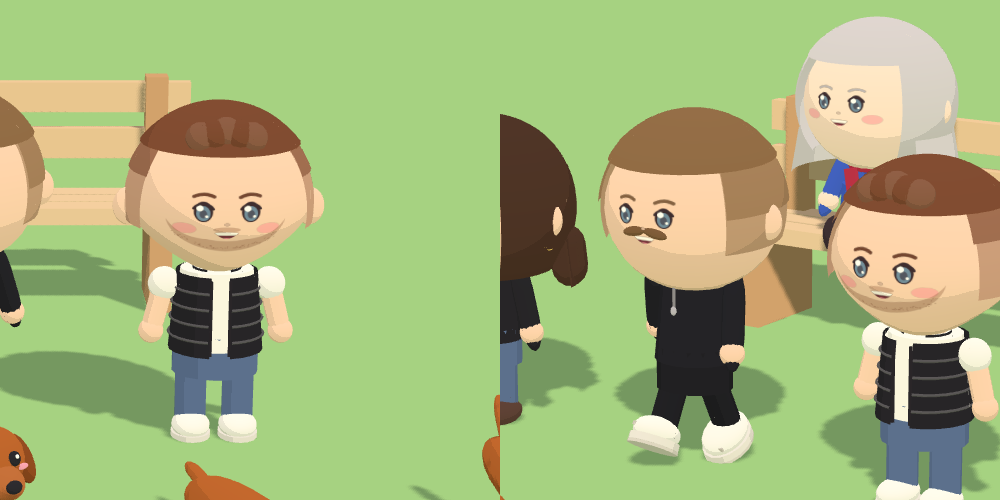
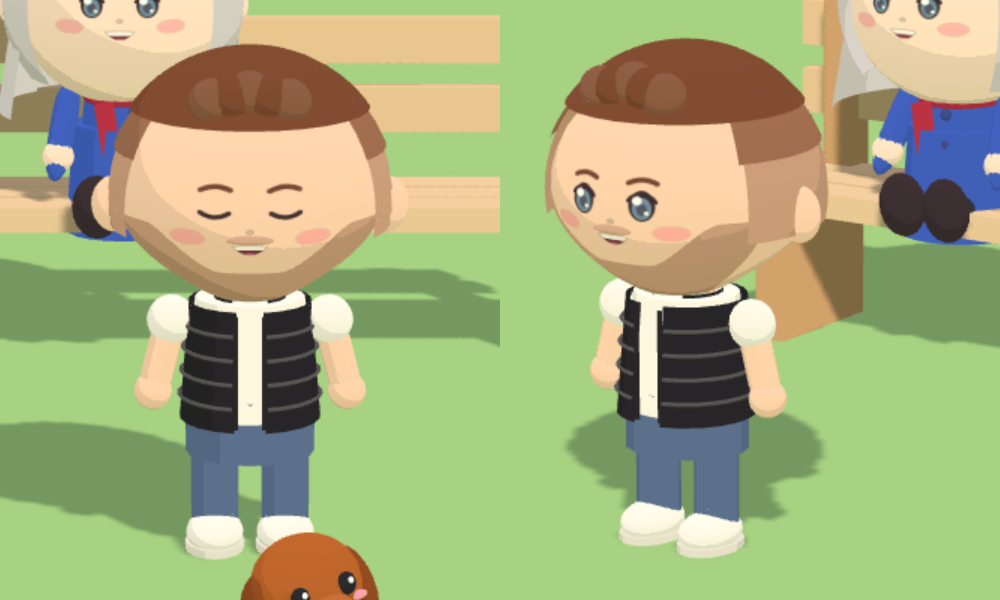
Mo: Dreitagebart als hautenge Schattenschicht statt aufgemaltem Streifen
Der gemalte Stoppelbart wirkte wie ein verschmierter Halbmond unterm Mund.
Jetzt dieselbe Form wie der kurze Bart, aber direkt auf der Haut und in
einer Mischfarbe aus Haut und Haar – dazu ein ganz flacher Oberlippen-Schatten.

Claude-Session: https://claude.ai/code/session_01ThTYhPHTkGtFy4ue8CC8z3

diff --git a/src/world3d/models/chibi3d.ts b/src/world3d/models/chibi3d.ts
@@ -74,39 +74,6 @@ function drawFace(a: Appearance, blink: boolean): HTMLCanvasElement {
     }
   }
 
-  // Dreitagebart: nur ein feiner Schatten an Kinn, Kiefer und Oberlippe (kein eigenes 3D-Teil)
-  if (a.beard === 'stoppel') {
-    const bc = a.beardColor || a.hairColor;
-    const rnd = mulberry32(11);
-    ctx.save();
-    ctx.globalAlpha = 0.3;
-    ctx.fillStyle = bc;
-    ctx.beginPath();
-    ctx.moveTo(36, eyeY + 18);
-    ctx.quadraticCurveTo(44, eyeY + 76, 128, eyeY + 82);
-    ctx.quadraticCurveTo(212, eyeY + 76, 220, eyeY + 18);
-    ctx.quadraticCurveTo(200, eyeY + 52, 160, eyeY + 52);
-    ctx.quadraticCurveTo(128, eyeY + 60, 96, eyeY + 52);
-    ctx.quadraticCurveTo(56, eyeY + 52, 36, eyeY + 18);
-    ctx.fill();
-    // Oberlippe
-    ctx.beginPath();
-    ctx.ellipse(128, eyeY + 32, 20, 5, 0, 0, Math.PI * 2);
-    ctx.fill();
-    // ein paar Stoppel-Pünktchen
-    ctx.globalAlpha = 0.35;
-    for (let i = 0; i < 70; i++) {
-      const t = rnd() * Math.PI;
-      const rr = 0.8 + rnd() * 0.2;
-      const x = 128 - Math.cos(t) * 88 * rr;
-      const y = eyeY + 40 + Math.sin(t) * 36 * rr;
-      ctx.beginPath();
-      ctx.arc(x, y, 1.1, 0, Math.PI * 2);
-      ctx.fill();
-    }
-    ctx.restore();
-  }
-
   // Augenbrauen (weich geschwungen)
   ctx.strokeStyle = browColor;
   ctx.lineWidth = a.beard !== 'keiner' || a.height > 1.1 ? 5.5 : 4.2;
@@ -164,7 +131,7 @@ function drawFace(a: Appearance, blink: boolean): HTMLCanvasElement {
 
   // Mund
   // Mit Bart sitzt der Mund in der Lücke zwischen Schnurrbart und Bart
-  const my = a.beard === 'voll' || a.beard === 'kurz' ? eyeY + 43 : eyeY + 40;
+  const my = a.beard === 'voll' || a.beard === 'kurz' || a.beard === 'stoppel' ? eyeY + 43 : eyeY + 40;
   const lip = darken(a.skinTone, 0.55);
   if (a.smile === 'laecheln') {
     ctx.strokeStyle = lip;
@@ -1004,6 +971,16 @@ export class Chibi3D {
         m.rotation.z = s * -0.18;
         this.head.add(m);
       }
+    } else if (a.beard === 'stoppel') {
+      // Dreitagebart: dieselbe Form wie der kurze Bart, aber hauteng und nur als Schatten (Haut + Haarfarbe gemischt)
+      const bc = mixHex(a.skinTone, a.beardColor || a.hairColor, 0.38);
+      const stubble = beardShell(R * 1.012, bc, 2.02, 1.6, 2.66);
+      if (oval) taperChin(stubble.geometry, R * 1.012);
+      stubble.scale.set(wide, 0.93, 0.95);
+      this.head.add(stubble);
+      // Oberlippe: ganz flacher Schatten statt Schnurrbart
+      const lip = part(sphereLow, mixHex(a.skinTone, a.beardColor || a.hairColor, 0.3), R * 0.17, R * 0.035, R * 0.025, 0, -R * 0.105, R * 0.928);
+      this.head.add(lip);
     } else if (a.beard === 'kurz' || a.beard === 'voll') {
       const bc = a.beardColor || lighten(a.hairColor, 0.05);
       const full = a.beard === 'voll';

diff --git a/docs/game-mechanics.md b/docs/game-mechanics.md
@@ -226,7 +226,7 @@ Wetter und Feste laufen nach echter Zeit.
 - **Kochen, wenn Jens verreist ist (Nov. 2026):** Das Bistro-Schild sagt jetzt, dass der Schlüssel fürs Kochstudio unter der Fußmatte liegt – „🍳 Ins Kochstudio“ öffnet es trotzdem. Zu Hause geht Kochen ohnehin an der eigenen **Küchenzeile** (Katalog bzw. Wohnküche), mit denselben Rezepten (`CraftPanel station="herd"`).
 - **Gemeinsame Unternehmungen (Nov. 2026):** Im Gesprächsmenü jedes eingezogenen Bewohners steht eine Unternehmung: **Memory mit Oma** (6 Paare, Versuche zählen), **Training mit Thalia** (10 Wiederholungen im Takt drücken, perfekt 2 / gut 1 Punkt; **Lina stellt sich neben Thalia, beide machen die Kniebeugen synchron zur Anzeige**, ganz unten = Punkt in der Mitte; das Fenster rückt nach unten, die Kamera rahmt die beiden, `World3D.trainingScene`, Pose `ChibiPose.squat`), **Puzzle mit Christin** (Schiebepuzzle 3 × 3, aus dem gelösten Bild gemischt, also immer lösbar; geprüft wird nach **Bildern**, gleiche Symbole sind austauschbar; das Ziel steht als kleines Raster daneben, richtige Plätze sind grün umrandet), **Zocken mit Oli** (Pfeil-Duell in **5 Leveln** mit eigenen Bossen: mehr Pfeile, weniger Zeit, ab Level 3 rote **Umkehr-Pfeile** = Gegenrichtung drücken; mit mindestens 60 % Treffern wird das nächste Level frei, jedes erreichte Level ist frei wählbar, Bestwert je Level; die Level-Auswahl geht auch per Tastatur: ↑/↓ wählt, Enter startet), **Kissen-Sumo mit Lars** (abwechselnd ← und → schiebt ihn aus dem Ring, gleiche Taste zweimal = Ausrutscher; der Stoß über den Rand gewinnt die Runde sofort; Lars drückt dagegen, wird je Runde etwas stärker und schiebt ab Level 2 ab und zu plötzlich nach („Tsuppari!“); wer zuerst zwei Runden gewinnt; **8 Level**: fünf Sumo-Ränge von Jonokuchi bis Yokozuna, danach Revanche, Dorfmeisterschaft und Legende (nötiges Tempo laut Simulation: 2 · 3,5 · 4,5 · 5,5 · 6,5 · 7,25 · 8,25 · 9 Drücke/s), ein gewonnenes Match schaltet den nächsten Rang frei, erreichte Ränge frei wählbar; gezeichnete Ringer mit Mawashi und Haarknoten auf einem Dohyō), **Rätselecke mit Papa** (5 von 18 Fragen, zufällig gemischt) und **Malen mit Jens** (Motiv + Farbstimmung; die Leinwand zeigt sofort ein **gemaltes Bild** mit Pinselstrichen: Meer, Winston schlafend, Oma auf der Bank, Sternenhimmel, Oli; Pastell, Kräftig oder Schwarz-Weiß, `gfx/malen.ts`; Jens kommentiert Motiv und Farben). Ablauf: Die Person sagt etwas, dann das Spiel im Fenster, danach ihre Reaktion je nach Ergebnis (super / gut / gemütlich, **kein Verlieren**). **Herzen** (+10) höchstens einmal am Tag je Person, danach beliebig oft nur zum Spaß; **Bestwert** wird gemerkt und ab der zweiten Runde kommentiert; das **erste Mal** steht im Album. Alles liegt in `world.dates` (kein neues Spielstand-Format). „Lieber ein andermal“ bricht jederzeit ab. Inhalte `data/unternehmungen.ts`, Logik `core/unternehmungen.ts` + `game/unternehmungen.ts`, Fenster `ui/ZusammenPanel.tsx`.
 - **Extra-Sätze beim Schenken (Nov. 2026):** Zu etwa 45 % der Geschenke (reproduzierbar je Tag, Person und Gegenstand) kommt nach der normalen Reaktion noch **ein Satz genau zu diesem Gegenstand**, in der Stimme der Person und passend dazu, ob sie ihn mag oder nicht (Olaf: Ostsee & Steuern, Christin: Ordnung, Jens: Kunst & Frankreich, Lars: Arzt-Humor, Gisela: Meinung & Ludwig, Oli: Spiele & Sci-Fi, Thalia: Fitness & Fossilien; Abneigungen bleiben liebevoll, nie verletzend). Wo eine Person schon eine eigene Reaktion (`giftsByItem`) hat, entfällt der Extra-Satz. Daten `data/geschenkSprueche.ts`, Logik `game/gameplay.ts → giftExtraLines`, Test `geschenkSprueche.test.ts`.
-- **Mo zu Besuch (Nov. 2026):** Olis bester Freund kommt nur zu Besuch (`data/mo.ts`, `game/mo.ts`, Aussehen `LOOKS.mo`: Kurzhaarschnitt `kurzhaar`, Dreitagebart `stoppel` als feiner Schatten im Gesicht, schwarze Steppweste `steppweste` über weißem T-Shirt).
+- **Mo zu Besuch (Nov. 2026):** Olis bester Freund kommt nur zu Besuch (`data/mo.ts`, `game/mo.ts`, Aussehen `LOOKS.mo`: Kurzhaarschnitt `kurzhaar`, Dreitagebart `stoppel` als hautenger Schatten am Kiefer (Haut + Haarfarbe gemischt), schwarze Steppweste `steppweste` über weißem T-Shirt).
   Sobald Oli und Thalia im Dorf wohnen und Thalia **2 Herzen** hat, gibt es bei Oli „💘 Mo zur Party einladen“. Zur nächsten
   **Samstagsparty** steht Mo am Rand der Tanzfläche. Beim Ansprechen Linas Verkupplungsversuch: Thalia und Mo verstehen sich,
   aber Mo hat **Jule** kennengelernt – aus den beiden wird nichts. Thalia nimmt es mit Humor („vergeben ist vergeben – komm,
